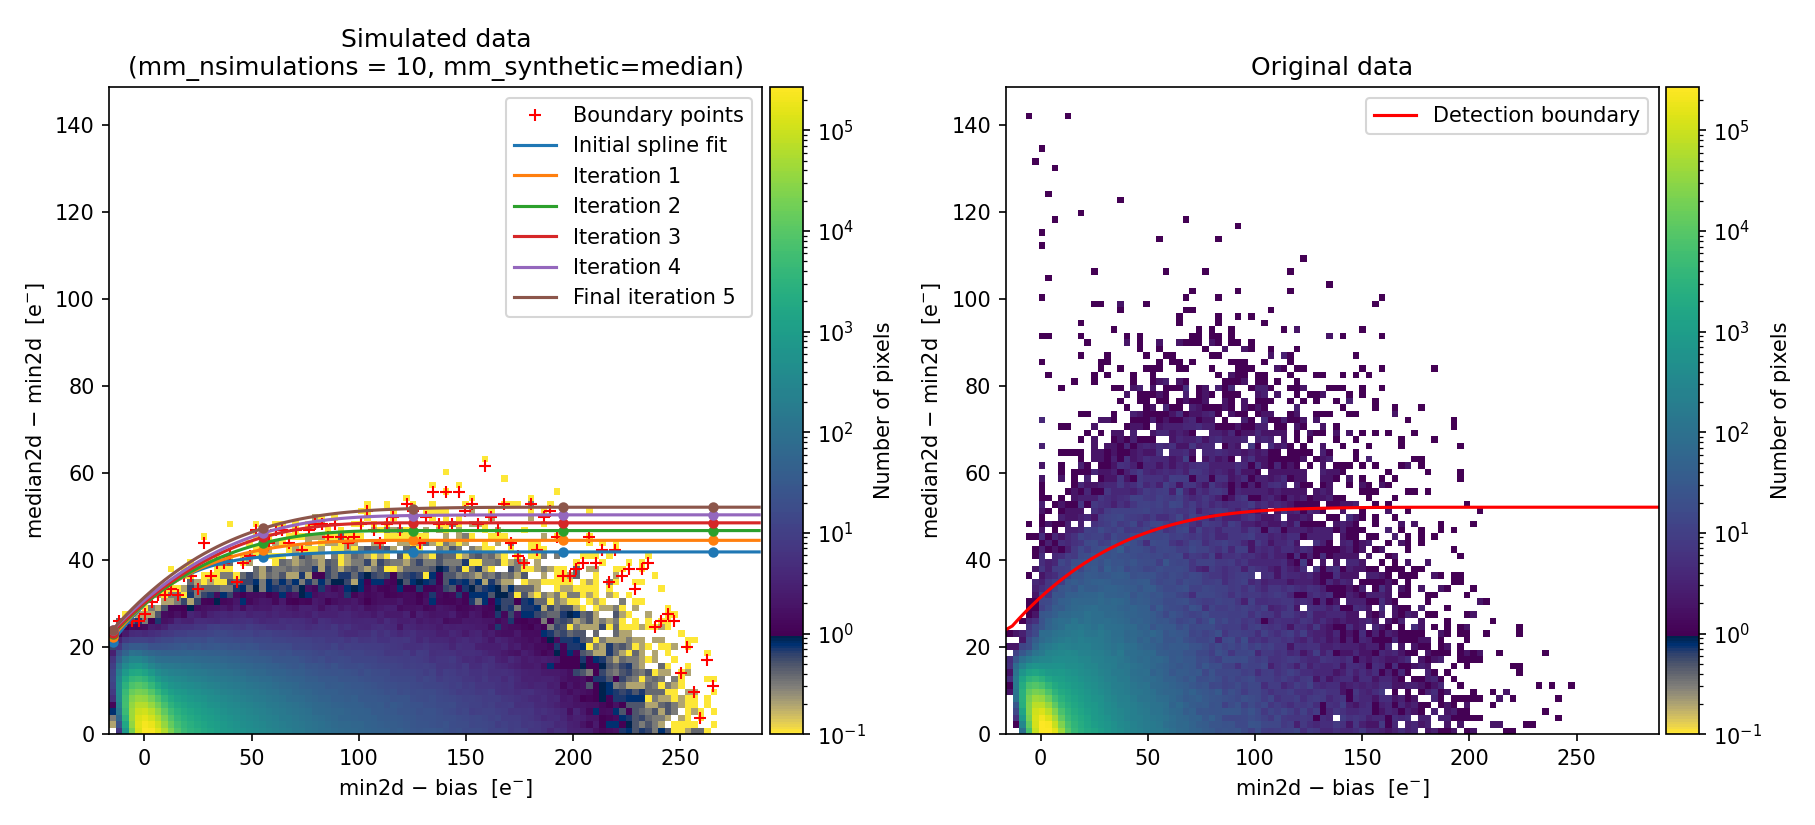
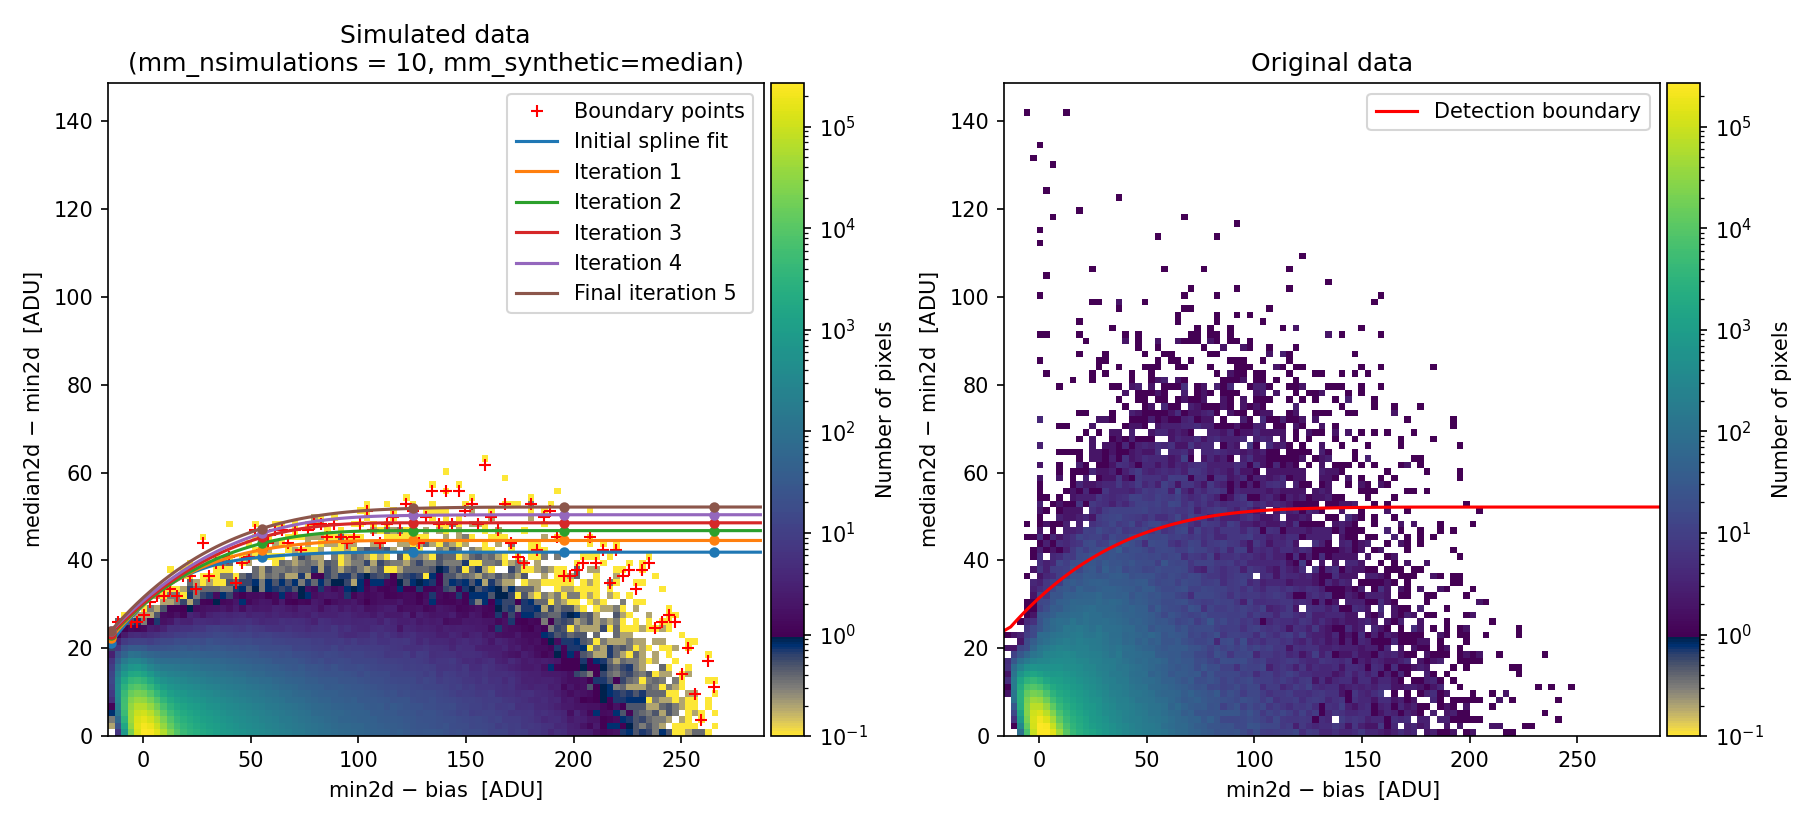
Modify units in plots: change electrons by ADU

diff --git a/tools/crmasks/crmasks.md b/tools/crmasks/crmasks.md
@@ -170,14 +170,18 @@ background in the example above):
 
 * `images`: List of input FITS images to be processed. Each image is specified 
   on an indented line below this keyword, starting with a dash followed by a 
-  space and the FITS filename.
+  space and the FITS filename. **Important: input images are assumed to be
+  in ADU units**. If the input arrays are in electrons, set `gain=1.0` in the
+  *General parameters* section (see below).
+
 * `extnum`: Extension number of the FITS file to be read (e.g., `0` for the 
   primary extension).
+
 * `gain`, `rnoise`, and `bias`: General image parameters including detector 
-  gain (electrons/ADU), readout noise (ADU), and bias level (ADU). This file 
-  uses parameters for preprocessed MEGARA exposures where the bias level has 
-  already been subtracted and the signal converted to electrons (hence 
-  `bias=0` and `gain=1.0`).
+  gain (electrons/ADU), readout noise (ADU), and bias level (ADU). Since in
+  this example we are working with preprocessed MEGARA exposures where the bias
+  level has already been subtracted and the signal converted to electrons, we
+  set `bias=0` and `gain=1.0`.
 * `requirements`: This section contains six parameter blocks:
 
   1. General execution parameters: Control the overall behavior of 
@@ -1029,7 +1033,7 @@ displays the new 2D diagnostic histograms:
 ```{include} files/terminal_output_example2a_02.md
 ```
 
-```{figure} images/diagnostic_histogram2d_example2.png
+```{figure} images/diagnostic_histogram2d_example2a.png
 :alt: MM diagnostic diagram for the median combination
 :name: fig-diagnostic_histogram2d_example2
 :width: 100%
@@ -1051,7 +1055,7 @@ Specifically, false detections on sky lines decrease drastically, as shown in
 panel (c) of the following figure:
 
 
-```{figure} images/diagnostic_mediancr_example2.png
+```{figure} images/diagnostic_mediancr_example2a.png
 :name: fig-diagnostic_mediancr_example2
 :width: 100%
 
